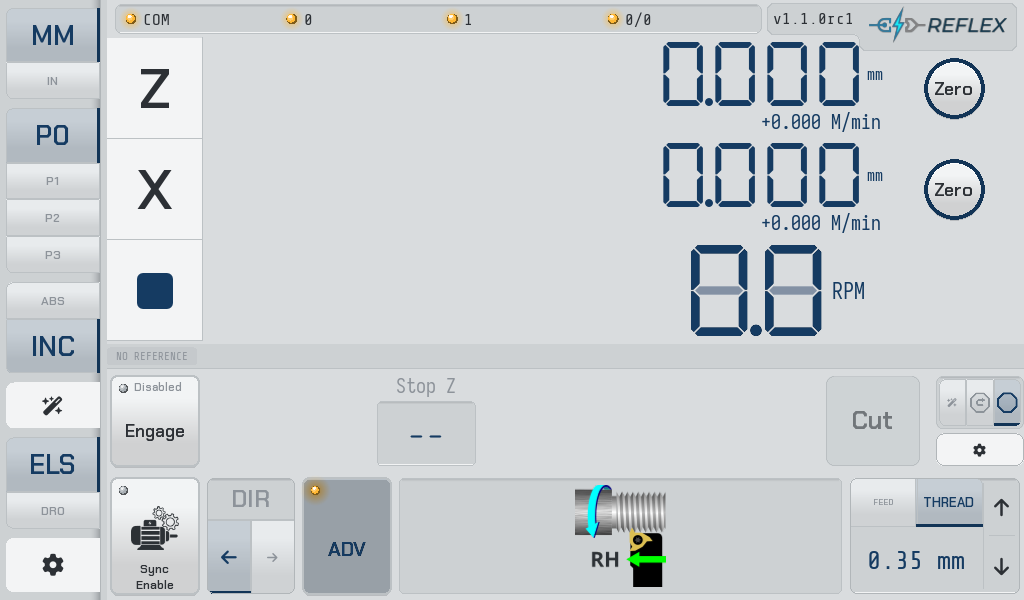
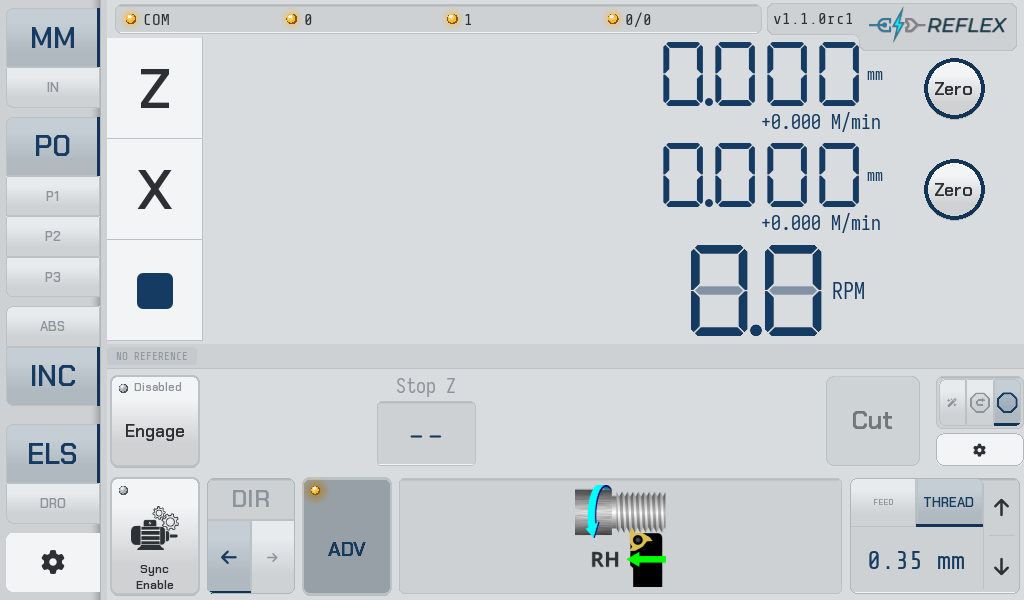
docs: annotate the screen, and stop conflating the two ELS bars
THE TWO BARS ARE SEPARATE WIDGETS and the page described them as one.
ElsModeLayout holds both: ElsBar is the always-present row (Sync Enable,
DIR, ADV, the thread-hand illustration, FEED/THREAD and the pitch), and
ElsAdvancedBar is what ADV reveals. They are now regions 5 and 6 with
their own sections.

That correction has a consequence worth stating, which the old page could
not have: the status gutter lives INSIDE the advanced bar, so collapsing
ADV hides the reference and phase-offset chips along with the controls.

ANNOTATED REGION MAP. Six numbered boxes on the home screen, drawn from
the WIDGETS' OWN GEOMETRY at capture time -- toolbar, status bar, the
bounding box of the axis rows plus spindle row, the gutter, the advanced
bar minus its gutter, and the ELS bar. Hardcoded pixel boxes would be a
second description of the layout to keep in sync, which is the thing this
doc set exists to avoid. _region_rects() raises rather than skipping a
region it cannot find: an annotation missing a box is worse than none,
because the numbers in the prose would point at nothing.

Numbers only, no label plates -- the first version drew both and the
plates covered "MM", the Z cell, Engage and Sync Enable. A region map
whose annotations hide what they annotate is working against itself. The
names are carried by the page's own headings.

THE CAPTURE NOW PROVISIONS A LATHE, NOT A FRESH INSTALL. Evan asked why
the pattern-screen wand is in the sidebar at all for a lathe. It is not
[…]

Changed region(s): [[0.0, 0.21, 0.125, 0.96], [0.0, 0.03, 0.0938, 0.15]]

diff --git a/ui/scripts/capture_readme_screenshots.py b/ui/scripts/capture_readme_screenshots.py
@@ -123,6 +123,114 @@ def _composite_over_theme_bg(path, rgba):
     out.save(path)
 
 
+# Regions named on the guide's "The screen" page, in reading order. Each entry
+# resolves to a WIDGET, so the boxes are measured rather than typed: a layout
+# change moves the annotation with it.
+#
+# The two bars are separate widgets and the guide had conflated them. ElsBar is
+# the always-present row (Sync Enable, DIR, ADV, pitch); ElsAdvancedBar is what
+# ADV reveals, and it carries the status gutter as well as the Engage/value/
+# action row -- so collapsing ADV hides the reference and phase chips too.
+REGIONS = [
+    (1, "Sidebar", "toolbar"),
+    (2, "Status bar", "statusbar"),
+    (3, "DRO", "dro"),
+    (4, "Status gutter", "gutter"),
+    (5, "Advanced ELS bar", "advbar"),
+    (6, "ELS bar", "elsbar"),
+]
+
+
+def _region_rects():
+    """Locate each region by widget. Returns {key: (x, y, w, h)} in Kivy coords.
+
+    Raises rather than skipping a region it cannot find: an annotation missing
+    a box is worse than no annotation, because the numbers in the prose would
+    then point at nothing.
+    """
+    home = app.manager.get_screen("home")
+    layout = home.current_layout
+    adv = _find(lambda w: type(w).__name__ == "ElsAdvancedBar")
+    els = _find(lambda w: type(w).__name__ == "ElsBar")
+    toolbar = _find(lambda w: type(w).__name__ == "HomeToolbar")
+    statusbar = _find(lambda w: type(w).__name__ == "StatusBar")
+    for name, w in (("ElsAdvancedBar", adv), ("ElsBar", els),
+                    ("HomeToolbar", toolbar), ("StatusBar", statusbar)):
+        assert w is not None, f"cannot annotate: no {name} in the tree"
+
+    gutter = adv.ids.status_gutter.__self__
+
+    # The DRO is not one widget: it is the axis rows plus the spindle row.
+    # Take their bounding box rather than naming one of them.
+    rows = list(layout.axis_bars) + [layout.spindle_info]
+    x0 = min(r.x for r in rows)
+    x1 = max(r.right for r in rows)
+    y0 = min(r.y for r in rows)
+    y1 = max(r.top for r in rows)
+
+    # The advanced bar minus its gutter: the gutter gets its own number, and a
+    # box drawn around both would put two numbers on one rectangle.
+    adv_y = adv.y
+    adv_h = gutter.y - adv.y
+
+    return {
+        "toolbar": (toolbar.x, toolbar.y, toolbar.width, toolbar.height),
+        "statusbar": (statusbar.x, statusbar.y, statusbar.width, statusbar.height),
+        "dro": (x0, y0, x1 - x0, y1 - y0),
+        "gutter": (gutter.x, gutter.y, gutter.width, gutter.height),
+        "advbar": (adv.x, adv_y, adv.width, adv_h),
+        "elsbar": (els.x, els.y, els.width, els.height),
+    }
+
+
+def _annotate(src, dst):
+    """Draw numbered boxes on an exported frame."""
+    from PIL import ImageDraw, ImageFont
+
+    rects = _region_rects()
+    img = Image.open(src).convert("RGB")
+    W, H = img.size
+    draw = ImageDraw.Draw(img, "RGBA")
+
+    font_path = os.path.join(os.path.dirname(reflex.__file__),
+                             "fonts", "ChakraPetch-Bold.ttf")
+    if not os.path.exists(font_path):
+        font_path = os.path.join(os.path.dirname(reflex.__file__),
+                                 "fonts", "ChakraPetch-SemiBold.ttf")
+    badge_font = ImageFont.truetype(font_path, 17)
+
+    # Amber: the one hue the UI itself does not use for state, so an annotation
+    # can never be mistaken for something the screen is saying.
+    INK = (255, 176, 32)
+    SHADE = (0, 0, 0, 150)
+
+    for num, label, key in REGIONS:
+        x, y, w, h = rects[key]
+        # Kivy y is bottom-up; PIL is top-down.
+        left, top = round(x), round(H - (y + h))
+        right, bottom = round(x + w), round(H - y)
+        draw.rectangle([left + 1, top + 1, right - 2, bottom - 2],
+                       outline=INK, width=2)
+
+        # NUMBER ONLY. `label` stays in REGIONS as the caption the guide uses
+        # and as documentation of what each box is, but drawing it here covered
+        # the UI the box exists to point at.
+        r = 12
+        cx = left + r + 4
+        cy = top + r + 4
+        draw.ellipse([cx - r, cy - r, cx + r, cy + r], fill=SHADE, outline=INK,
+                     width=2)
+        t = str(num)
+        tb = draw.textbbox((0, 0), t, font=badge_font)
+        draw.text((cx - (tb[2] - tb[0]) / 2 - tb[0],
+                   cy - (tb[3] - tb[1]) / 2 - tb[1]), t, font=badge_font,
+                  fill=INK)
+
+    img.save(dst)
+    print("WROTE", dst, "  %d regions" % len(REGIONS))
+    return rects
+
+
 def _settle():
     for _ in range(IDLE_TICKS):
         EventLoop.idle()
@@ -259,6 +367,17 @@ def _capture(_dt):
             _settle()
             _shot(f"home_els_{theme}")
 
+        # ── The annotated region map for the guide's "The screen" page.
+        # Dark, stop-only: the same frame the page already shows, with its
+        # regions numbered from the widgets' own geometry.
+        app.formats.theme = "dark"
+        _settle()
+        annotated = os.path.join(OUT_DIR, "the_screen_regions.png")
+        _region_rects()          # fail here, before a frame is exported
+        _shot("home_els_dark")   # re-export the base at this theme
+        _annotate(os.path.join(OUT_DIR, "home_els_dark.png"), annotated)
+        WROTE.append(annotated)
+
         # ── Stop + retract, and the wizard walk. Dark only: these illustrate
         # controls and workflow, and a second theme of each would double the
         # README's images without adding anything.
@@ -280,6 +399,17 @@ def _arm(_dt):
     # Lathe use case is what exposes ELS mode (set_mode silently falls back to
     # DRO otherwise — see app.allowed_modes / USE_CASE_MODES).
     app.use_case = "lathe"
+
+    # THIS CAPTURE REPRESENTS A PROVISIONED LATHE, NOT A FRESH INSTALL. The
+    # isolated HOME above is for determinism, and its cost is that every
+    # setting not overridden here comes out at its class default -- which is
+    # how these shots shipped in wizard mode until 2026-08-30.
+    #
+    # The pattern screen (hole circles, lines, rectangles) is a rotary-table
+    # feature, and its wand sits in the sidebar above ELS/DRO. elspi has
+    # show_wizard false, so the wand is not on the machine's screen; leaving it
+    # on here put a control in every screenshot that the machine does not show.
+    app.formats.show_wizard = False
     # Name representative axes (a fresh config seeds 4 unnamed "?" axes).
     for i, name in enumerate(AXIS_NAMES):
         if i < len(app.axes):
@@ -310,8 +440,8 @@ app.run()
 # also swallow the exit code.
 if FAILED:
     raise SystemExit(f"capture_readme_screenshots failed: {FAILED[0]!r}")
-if len(WROTE) != 2 + 1 + len(WIZARD_STEPS):
+if len(WROTE) != 2 + 1 + 1 + 1 + len(WIZARD_STEPS):
     raise SystemExit(
-        f"wrote {len(WROTE)} images, expected {2 + 1 + len(WIZARD_STEPS)}: "
+        f"wrote {len(WROTE)} images, expected {2 + 1 + 1 + 1 + len(WIZARD_STEPS)}: "
         f"{[os.path.basename(w) for w in WROTE]}")
 print(f"OK: {len(WROTE)} images")

diff --git a/docs/guide/the-screen.md b/docs/guide/the-screen.md
@@ -1,9 +1,14 @@
 # The screen
 
-![The home screen, ELS mode, stop-only](../screenshots/home_els_dark.png)
-
 The display is 1024×600 and everything on it is reachable by thumb. It divides
-into five regions.
+into six regions.
+
+![The home screen with its regions numbered](../screenshots/the_screen_regions.png)
+
+!!! info "The boxes are measured, not drawn"
+    Those outlines come from the widgets' own geometry at capture time, so they
+    move when the layout does. Nobody is keeping a second description of this
+    screen in step by hand.
 
 ## 1 — The sidebar
 
@@ -14,13 +19,18 @@ Down the left edge, from the top:
 | **MM / IN** | Display units. Switching re-renders every readout; it does not move anything. |
 | **P0 / P1 / P2 / P3** | Four work-offset slots. Zeroing an axis zeroes it in the selected slot, so you can keep several datums for one job. |
 | **ABS / INC** | Absolute or incremental readout. |
-| **Wand** | Opens the pattern screen (hole circles, lines, rectangles). Hidden unless patterns are enabled. |
 | **ELS / DRO** | Operating mode. `DRO` is a plain read-out; `ELS` adds the leadscrew. Tapping cycles. |
 | **Gear** | Settings. |
 
 The mode selector only offers what the machine's *use case* allows — a lathe
 exposes ELS, other use cases do not, and asking for a mode that is not allowed
 silently falls back to DRO rather than half-starting one.
+
+!!! note "A wand icon may sit above ELS / DRO"
+    It opens the pattern screen — hole circles, lines, rectangles — which is a
+    rotary-table feature with little to offer a lathe. It is hidden when
+    patterns are switched off in settings, and it is off on the machine this
+    guide is written from.
 
 ## 2 — The status bar
 
@@ -38,8 +48,8 @@ the current work offset — not in the machine frame, and not in the controller.
 
 ![The gutter with a reference latched and an offset applied](../screenshots/flow/wt_gutter_on.png)
 
-A permanently reserved 26-pixel strip between the DRO and the controls. It holds
-two chips and never covers anything else:
+A permanently reserved 26-pixel strip. It holds two chips and never covers
+anything else:
 
 **Left — the thread reference.** Reads `NO REFERENCE` or `REF LATCHED`. This is
 the datum the controller cuts threads against. It persists across a switch to
@@ -53,27 +63,40 @@ showing the distance and its share of one pitch. See
 When the controller has something to say, a translucent notice strip lands
 across this gutter. It is sized so it never lands on top of either chip's text.
 
-## 5 — The advanced bar
+## 5 — The advanced ELS bar
 
-The control row, and its contents depend on the mode
-([see the next page](operator-modes.md)). In stop-only, from the left:
+The stop controls, and **what `ADV` reveals**. From the left:
 
 - **Engage / Disengage** with its own LED — `Disabled`, `Armed`, or a fault.
-- **Stop Z** — the shoulder you are feeding to.
-- **Cut** — the action button. It is blank and recessed when there is no action
-  available, and lights up when there is.
-- **Mode selector and settings** on the right.
+- **Stop Z** — the shoulder you are feeding to. In stop + retract and wizard
+  modes, **Start Z**, **Major ø** and **Minor ø** appear beside it.
+- The **action button** — `Cut`, `Retract`, `Set` or `Confirm` depending on
+  where you are. It is blank and recessed when there is no action available.
+- The **mode selector** and **settings** on the right.
 
-Below that: **Sync Enable**, the **DIR** direction pair, **ADV**, the
-thread-hand illustration, and the feed/thread selector with the current
-pitch.
+Its contents depend on the mode — see
+[The three stop modes](operator-modes.md).
 
-**ADV** collapses and expands the stop controls. Collapsed, with the stop
-disengaged, what is left is a DRO with a spindle-synchronised leadscrew
-behind it — a traditional ELS. Sync is independent of the stop feature, so a
-turning spindle drives the leadscrew either way.
+!!! warning "The gutter belongs to this bar"
+    Region 4 is part of the advanced bar, not a separate strip, so collapsing
+    `ADV` hides the reference and phase-offset chips along with the controls.
+
+## 6 — The ELS bar
+
+Always present in ELS mode, whether or not the advanced bar is showing:
+
+- **Sync Enable** — spindle-synchronised feed. Independent of the stop: a
+  turning spindle drives the leadscrew through sync whether or not a threading
+  job is armed.
+- **DIR** — the direction the carriage travels under feed.
+- **ADV** — collapses and expands the advanced bar above.
+- The **thread-hand illustration**, showing right- or left-hand and the
+  direction of cut.
+- **FEED / THREAD** and the current rate or pitch, with ▲▼ steppers.
+
+With `ADV` collapsed and the stop disengaged, this row plus the DRO is the whole
+interface: a read-out with a traditional electronic leadscrew behind it.
 
 !!! tip "The action button always says what it will do"
-    It reads `Cut`, `Retract`, `Set` or `Confirm` depending on where you are.
     If it is blank, the controller has nothing for you to press yet — and the
     instruction line above the fields usually says what it is waiting for.
